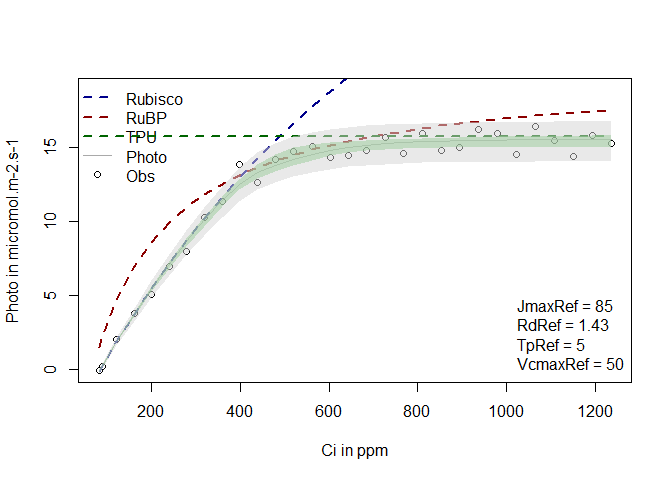
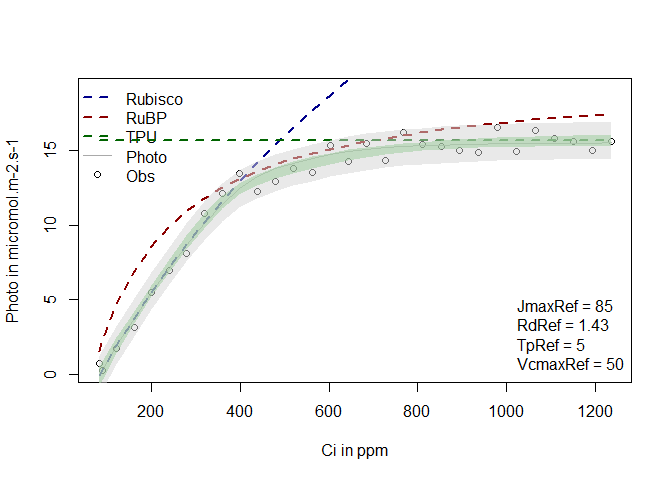
Update Aci vignette

diff --git a/vignettes/Aci_fitting.md b/vignettes/Aci_fitting.md
@@ -30,10 +30,9 @@ PAR=1800
 RH=80
 simul=f.A(PFD = PAR,cs = CO2,Tleaf = Tleaf,Tair = Tair,RH = RH,param = param)
 
-# Here we include a normal error with a standard deviation proportionnal to the gross photosynthesis (as it is often observed)
+# Here we include a normal error 
 
-noise=unlist(lapply(X = simul$Ag,FUN = function(x){rnorm(n=1,mean=0,sd=0.035*(x))}))
-simul$A=simul$A+noise
+simul$A=simul$A+rnorm(n=length(simul$A),mean = 0,sd = 0.6)
 measures=data.frame(Tleaf=Tleaf,Ci=simul$ci,PARi=PAR,Photo=simul$A)
 ```
 
@@ -66,15 +65,15 @@ fitting1=f.fitting(measures = measures,Start = list(JmaxRef = 30, VcmaxRef = 50,
 ```
 
     ## $par
-    ##  JmaxRef VcmaxRef    RdRef 
-    ## 78.51244 48.36841  1.16680 
+    ##   JmaxRef  VcmaxRef     RdRef 
+    ## 79.086026 49.837138  1.269978 
     ## 
     ## $value
-    ## [1] 17.35969
+    ## [1] 13.97696
     ## 
     ## $counts
     ## function gradient 
-    ##      128       NA 
+    ##      120       NA 
     ## 
     ## $convergence
     ## [1] 0
@@ -82,7 +81,7 @@ fitting1=f.fitting(measures = measures,Start = list(JmaxRef = 30, VcmaxRef = 50,
     ## $message
     ## NULL
     ## 
-    ## [1] "sd 0.760694608423429"
+    ## [1] "sd 0.682567708505785"
     ## Length  Class   Mode 
     ##      1   mle2     S4
 
@@ -96,14 +95,14 @@ fitting2=f.fitting(measures = measures,Start = list(JmaxRef = 30, VcmaxRef = 50,
 
     ## $par
     ##   JmaxRef  VcmaxRef     RdRef     TpRef 
-    ## 86.628962 50.379243  1.513889  4.973832 
+    ## 83.276423 51.233239  1.492137  5.084070 
     ## 
     ## $value
-    ## [1] 9.426514
+    ## [1] 10.87456
     ## 
     ## $counts
     ## function gradient 
-    ##      387       NA 
+    ##      403       NA 
     ## 
     ## $convergence
     ## [1] 0
@@ -111,7 +110,7 @@ fitting2=f.fitting(measures = measures,Start = list(JmaxRef = 30, VcmaxRef = 50,
     ## $message
     ## NULL
     ## 
-    ## [1] "sd 0.560550733535672"
+    ## [1] "sd 0.602067540600589"
     ## Length  Class   Mode 
     ##      1   mle2     S4
 
@@ -123,18 +122,18 @@ second object corresponds to a maximum likelihood which is made using
 the package mle2. This latter method is usefull because it allowes us to
 calculate the confidence interval of the parameters. The mean parameters
 used to simulate the curves (VcmaxRef = 50,JmaxRef=85,TpRef=5,
-RdRef=1.43 and sigma\_b= 0.035) should be in the confidence interval.
+RdRef=1.43 and sigma= 0.6) should be in the confidence interval.
 
 ``` r
 confint(fitting2[[2]])
 ```
 
-    ##                2.5 %      97.5 %
-    ## sigma_b   0.03089982  0.05151112
-    ## JmaxRef  82.39958570          NA
-    ## VcmaxRef 47.48716414 51.37171767
-    ## TpRef     4.79290861  5.09148706
-    ## RdRef     1.28516419  1.50849007
+    ##               2.5 %     97.5 %
+    ## sigma     0.4769272  0.7937109
+    ## JmaxRef  78.1955389 88.6510706
+    ## VcmaxRef 46.4498577 56.6649010
+    ## TpRef     4.8113754  5.3772552
+    ## RdRef     0.7653912  2.2366471
 
 It is possible to compare the AIC of the two models using the base
 function AIC. The lower AIC corresponds to the best model, showing that
@@ -145,20 +144,20 @@ the fit of the model.
 AIC(fitting1[[2]])
 ```
 
-    ## [1] 62.20528
+    ## [1] 70.2227
 
 ``` r
 AIC(fitting2[[2]])
 ```
 
-    ## [1] 48.57756
+    ## [1] 64.69317
 
 It is also possible to calculate the interval of confidence and
 prediction of the Aci curve from the outputs of the fitting.
 
 ``` r
 var_cov=fitting2[[2]]@vcov
-random_param=rmvnorm(1000,mean=fitting2[[2]]@coef[c('sigma_b','JmaxRef','VcmaxRef','TpRef','RdRef')],sigma = var_cov)
+random_param=rmvnorm(1000,mean=fitting2[[2]]@coef[c('sigma','JmaxRef','VcmaxRef','TpRef','RdRef')],sigma = var_cov)
 
 random_simul=matrix(data = NA,nrow = 1000,ncol = nrow(measures))
 for(i in 1:1000){
@@ -168,7 +167,7 @@ for(i in 1:1000){
 fit_pred=f.Aci(PFD = measures$PARi,ci = measures$Ci,Tleaf =measures$Tleaf,param = f.make.param(VcmaxRef=fitting2[[2]]@coef[c('VcmaxRef')],JmaxRef=fitting2[[2]]@coef[c('JmaxRef')],TpRef=fitting2[[2]]@coef[c('TpRef')],RdRef=fitting2[[2]]@coef[c('RdRef')]))
 
 sd_mean=apply(X = random_simul,MARGIN = 2,FUN =sd)
-sd_res=fitting2[[2]]@coef['sigma_b']*fit_pred$Ag
+sd_res=fitting2[[2]]@coef['sigma']
 sd_tot=sqrt(sd_mean^2+sd_res^2)
 simul_confint=rbind(fit_pred$A-1.96*sd_mean,fit_pred$A+1.96*sd_mean)
 simul_pred=rbind(fit_pred$A-1.96*sd_tot,fit_pred$A+1.96*sd_tot)
